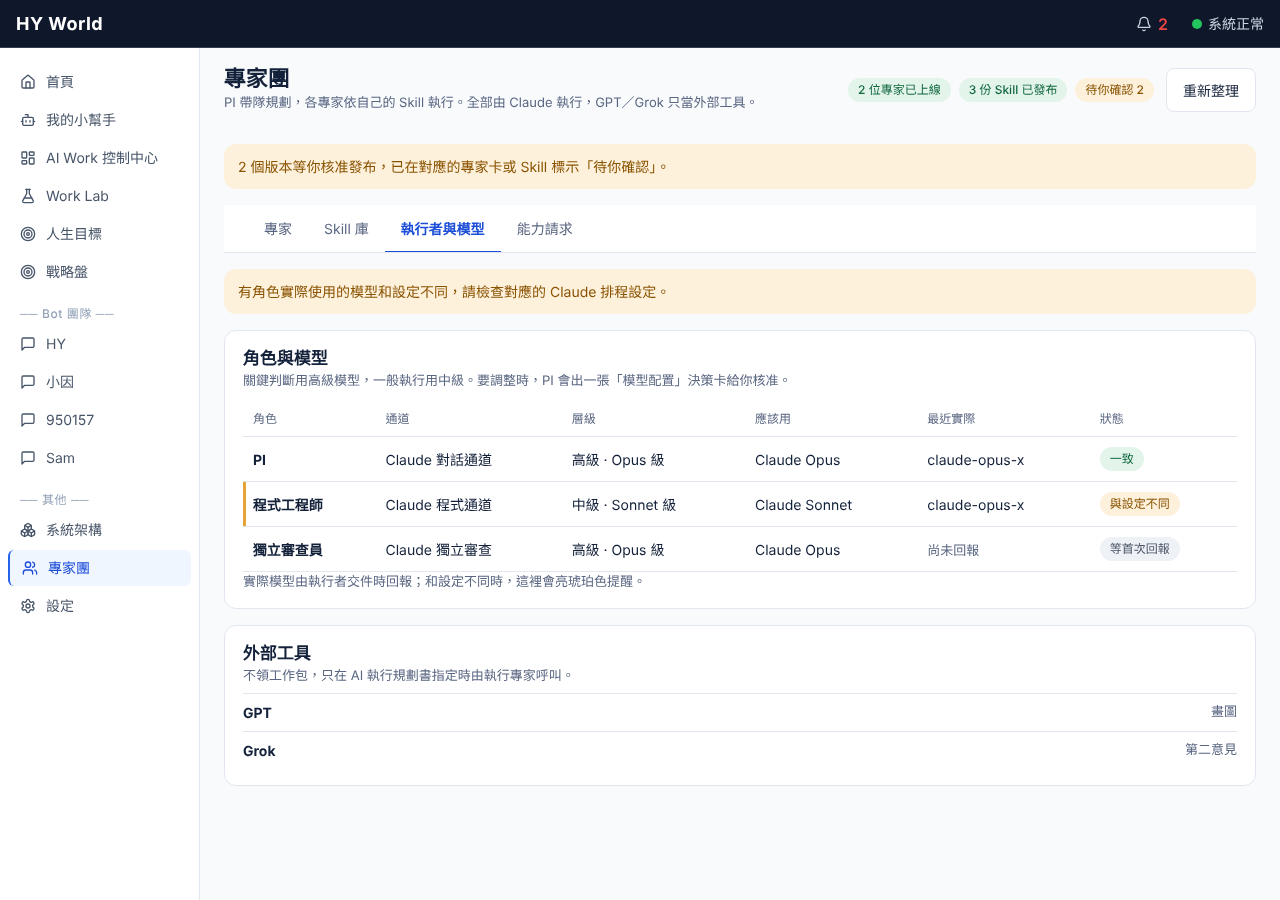
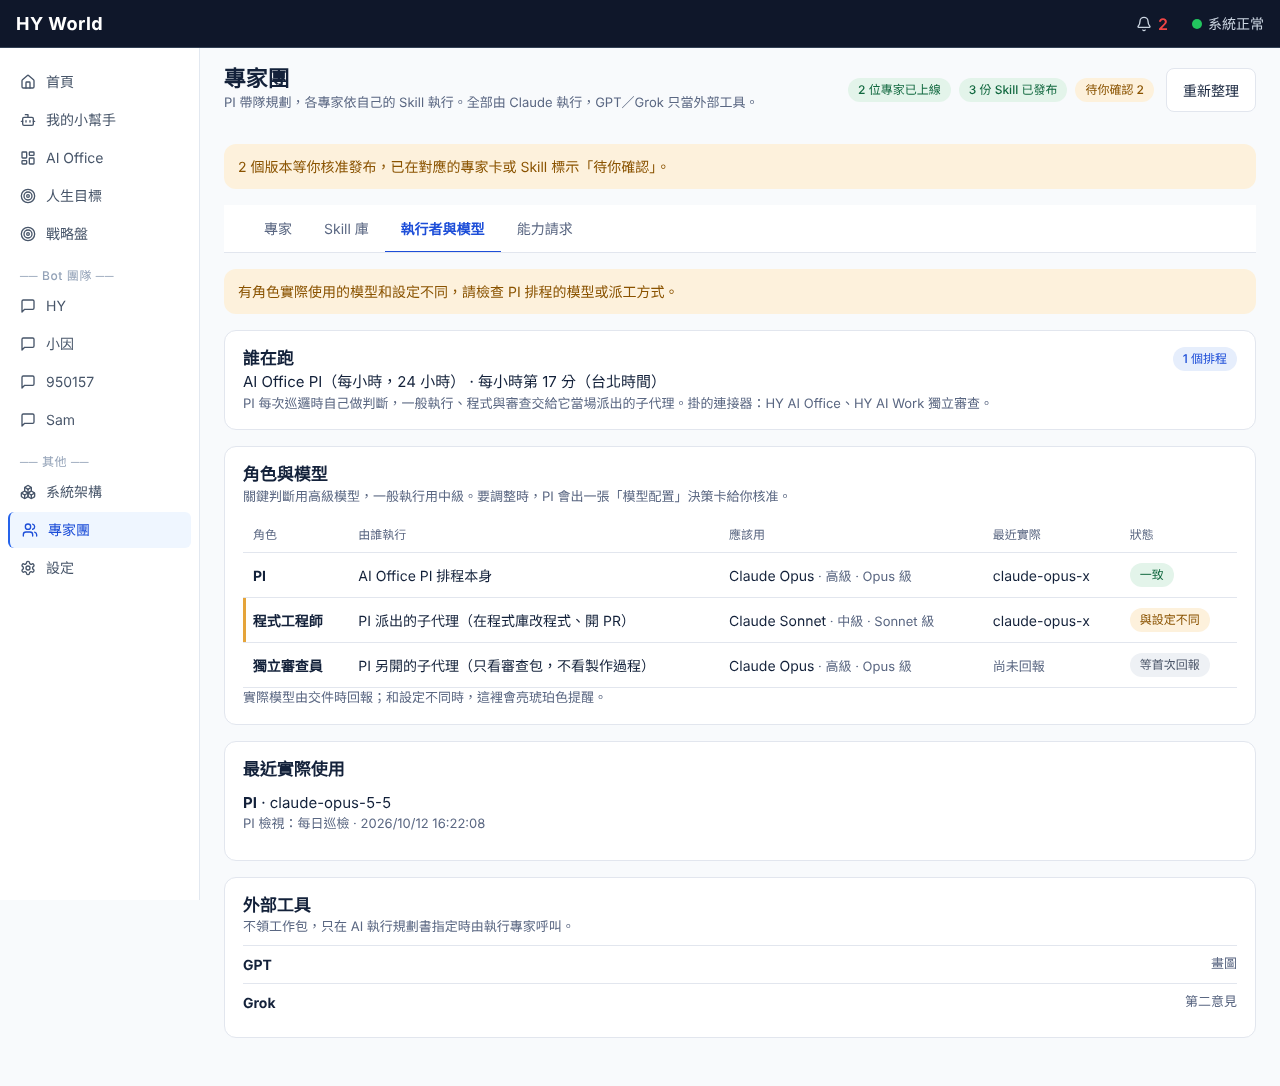
執行者與模型：顯示誰在跑（單一 PI 排程＋子代理）、角色由誰執行、最近實際使用 (#91)
Claude-Session: https://claude.ai/code/session_01Ea8bkY5yr8PRdhnq8hBecS

diff --git a/src/pages/ExpertTeam.jsx b/src/pages/ExpertTeam.jsx
@@ -102,16 +102,27 @@ function ModelsTab() {
   if (error) return <div className="hy-stack"><p role="alert" className="hy-alert is-bad">模型設定讀取失敗：{error}</p><button className="hy-btn" onClick={load}>重試讀取</button></div>
   if (!models) return <p className="hy-empty">讀取中…</p>
   const status = r => r.mismatch ? <span className="hy-pill" data-s="you">與設定不同</span> : r.last_reported ? <span className="hy-pill" data-s="done">一致</span> : <span className="hy-pill" data-s="wait">等首次回報</span>
+  const when = t => t ? new Date(t * 1000).toLocaleString('zh-TW', { hour12: false }) : ''
+  const sch = models.schedule
   return <div className="hy-stack">
-    {models.roles.some(r => r.mismatch) && <p className="hy-alert">有角色實際使用的模型和設定不同，請檢查對應的 Claude 排程設定。</p>}
+    {models.roles.some(r => r.mismatch) && <p className="hy-alert">有角色實際使用的模型和設定不同，請檢查 PI 排程的模型或派工方式。</p>}
+    {sch && <section className="hy-card">
+      <div className="hy-card-head"><h2 className="hy-card-title">誰在跑</h2><span className="hy-pill" data-s="ai">1 個排程</span></div>
+      <p>{sch.name} · {sch.when}</p>
+      <p className="hy-note">PI 每次巡邏時自己做判斷，一般執行、程式與審查交給它當場派出的子代理。掛的連接器：{sch.connectors.join('、')}。</p>
+    </section>}
     <section className="hy-card">
       <div className="hy-card-head"><h2 className="hy-card-title">角色與模型</h2></div>
       <p className="hy-note">關鍵判斷用高級模型，一般執行用中級。要調整時，PI 會出一張「模型配置」決策卡給你核准。</p>
-      <div className="et-table-wrap"><table className="et-table"><thead><tr><th>角色</th><th>通道</th><th>層級</th><th>應該用</th><th>最近實際</th><th>狀態</th></tr></thead>
-        <tbody>{models.roles.map(r => <tr key={r.role} className={r.mismatch ? 'needs-you' : undefined}><td><b>{r.name}</b></td><td>{laneLabel(r.lane)}</td><td>{TIER[r.tier] || r.tier_label}</td><td>{r.model}</td><td>{r.last_reported?.model || <span className="hy-note">尚未回報</span>}</td><td>{status(r)}</td></tr>)}</tbody></table></div>
-      <div className="et-mobile-roles">{models.roles.map(r => <div className="et-mrole" key={r.role}><div className="hy-card-head"><b>{r.name}</b>{status(r)}</div><div className="hy-note">{laneLabel(r.lane)} · {TIER[r.tier] || r.tier_label}</div><div>應該用 {r.model}<span className="hy-note"> · 最近實際：{r.last_reported?.model || '尚未回報'}</span></div></div>)}</div>
-      <p className="hy-note">實際模型由執行者交件時回報；和設定不同時，這裡會亮琥珀色提醒。</p>
+      <div className="et-table-wrap"><table className="et-table"><thead><tr><th>角色</th><th>由誰執行</th><th>應該用</th><th>最近實際</th><th>狀態</th></tr></thead>
+        <tbody>{models.roles.map(r => <tr key={r.role} className={r.mismatch ? 'needs-you' : undefined}><td><b>{r.name}</b></td><td>{r.runner || laneLabel(r.lane)}</td><td>{r.model}<span className="hy-note"> · {TIER[r.tier] || r.tier_label}</span></td><td>{r.last_reported?.model || <span className="hy-note">尚未回報</span>}</td><td>{status(r)}</td></tr>)}</tbody></table></div>
+      <div className="et-mobile-roles">{models.roles.map(r => <div className="et-mrole" key={r.role}><div className="hy-card-head"><b>{r.name}</b>{status(r)}</div><div className="hy-note">{r.runner || laneLabel(r.lane)}</div><div>應該用 {r.model}<span className="hy-note"> · 最近實際：{r.last_reported?.model || '尚未回報'}</span></div></div>)}</div>
+      <p className="hy-note">實際模型由交件時回報；和設定不同時，這裡會亮琥珀色提醒。</p>
     </section>
+    {models.recent?.length > 0 && <section className="hy-card">
+      <div className="hy-card-head"><h2 className="hy-card-title">最近實際使用</h2></div>
+      <div className="et-recent">{models.recent.map((x, i) => <div key={i}><div><b>{x.role_name}</b> · {x.model}</div><div className="hy-note">{x.task} · {when(x.at)}</div></div>)}</div>
+    </section>}
     <section className="hy-card">
       <div className="hy-card-head"><h2 className="hy-card-title">外部工具</h2></div>
       <p className="hy-note">不領工作包，只在 AI 執行規劃書指定時由執行專家呼叫。</p>

diff --git a/src/pages/expert-team.css b/src/pages/expert-team.css
@@ -70,3 +70,5 @@
   .et-skill-list li{flex-direction:column}
   .pi-controls{align-items:stretch}.pi-controls .hy-btn{width:100%}
 }
+
+.et-recent>div{padding:10px 0;border-bottom:1px solid var(--hy-line)}.et-recent>div:last-child{border-bottom:0}
